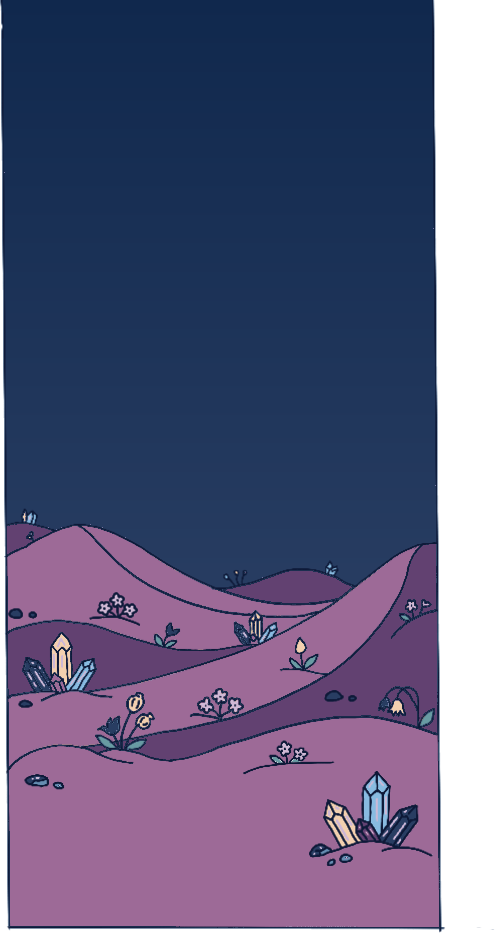
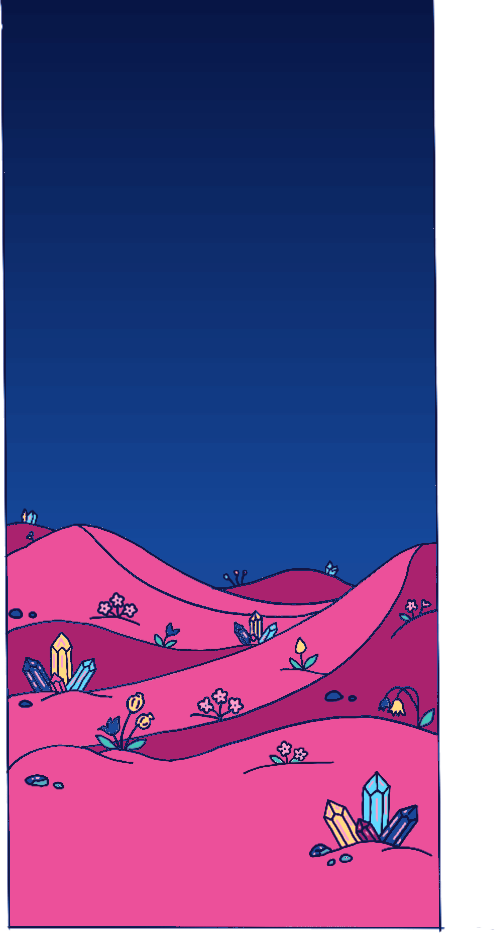
Éclairer les lunes et raviver les couleurs du désert de nuit

diff --git a/index.html b/index.html
@@ -244,8 +244,8 @@ html[data-theme="night"] #nana-glow-stars-layer .nana-phosphor-star {opacity:1!i
     .desert-night { display:none; }
     html[data-theme="night"] #v2-desert .desert-night { display:inline; }
     html[data-theme="night"] #v2-desert .desert-day { display:none; }
-    html[data-theme="night"] #v2-desert :is(.desert-crescent,.desert-round-moon) {
-      filter:url(#desert-moonlight) drop-shadow(0 0 8px rgba(255,224,191,.44));
+    html[data-theme="night"] #v2-desert :is(.desert-crescent,.desert-round-moon) image {
+      filter:url(#desert-moonlight);
     }
     .desert-crescent { animation:desert-crescent-drift 62s ease-in-out infinite alternate; }
     .desert-round-moon { animation:desert-round-drift 41s ease-in-out infinite alternate; }
@@ -256,7 +256,7 @@ html[data-theme="night"] #nana-glow-stars-layer .nana-phosphor-star {opacity:1!i
       0% { transform:translate(0,0); } 50% { transform:translate(-21px,36px); } 100% { transform:translate(-72px,54px); }
     }
     @media (prefers-reduced-motion:reduce) {
-      #v2-desert image { animation:none; }
+      #v2-desert :is(.desert-crescent,.desert-round-moon) { animation:none; }
     }
     .v2-clock-reflection { display:none; }
     html[data-theme="night"] .v2-clock-reflection { display:inline; }
@@ -841,15 +841,27 @@ html body #work-desktop .desktop-folder .folder-tile.work-browser-tile{
           <!-- Decorative movement restricted to the CENTRAL glass pane, behind every clickable hotspot. -->
           <template id="v2-desert-template"><svg id="v2-desert" data-room-v2-layer viewBox="0 0 3072 1732" preserveAspectRatio="none" aria-hidden="true" focusable="false">
             <defs><clipPath id="v2-desert-window"><path d="M1739 119 L2154 22 L2156 890 L1739 884 Z"/></clipPath>
+              <radialGradient id="desert-lunar-glow">
+                <stop offset="0" stop-color="#fff3ac" stop-opacity=".84"/>
+                <stop offset=".35" stop-color="#ffe599" stop-opacity=".59"/>
+                <stop offset=".63" stop-color="#ffcf9d" stop-opacity=".24"/>
+                <stop offset="1" stop-color="#ffc4aa" stop-opacity="0"/>
+              </radialGradient>
               <filter id="desert-moonlight" color-interpolation-filters="sRGB">
                 <feColorMatrix values="0 .76 0 0 .25  0 .77 0 0 .20  0 .59 0 0 .30  0 0 0 1 0"/>
               </filter>
             </defs>
             <g clip-path="url(#v2-desert-window)">
-              <image class="desert-night" href="assets/room-redraw/desert-rose-nuit.webp" x="1723" y="0" width="495" height="933"/>
+              <image class="desert-night" href="assets/room-redraw/desert-rose-nuit.webp?v=rose-vif" x="1723" y="0" width="495" height="933"/>
               <image class="desert-day" href="assets/room-redraw/desert-rose.webp" x="1723" y="0" width="495" height="933"/>
-              <image class="desert-crescent" href="assets/room-redraw/lune-croissant.png" x="1775" y="165" width="85" height="83"/>
-              <image class="desert-round-moon" href="assets/room-redraw/lune-ronde.png" x="2063" y="257" width="59" height="59"/>
+              <g class="desert-crescent">
+                <circle class="desert-night" cx="1810" cy="207" r="93" fill="url(#desert-lunar-glow)"/>
+                <image href="assets/room-redraw/lune-croissant.png" x="1775" y="165" width="85" height="83"/>
+              </g>
+              <g class="desert-round-moon">
+                <circle class="desert-night" cx="2092.5" cy="286.5" r="77" fill="url(#desert-lunar-glow)"/>
+                <image href="assets/room-redraw/lune-ronde.png" x="2063" y="257" width="59" height="59"/>
+              </g>
             </g>
           </svg></template>
           <svg id="window-life" data-room-v2-layer viewBox="0 0 1670 942" preserveAspectRatio="none" xmlns="http://www.w3.org/2000/svg" aria-hidden="true" focusable="false">
